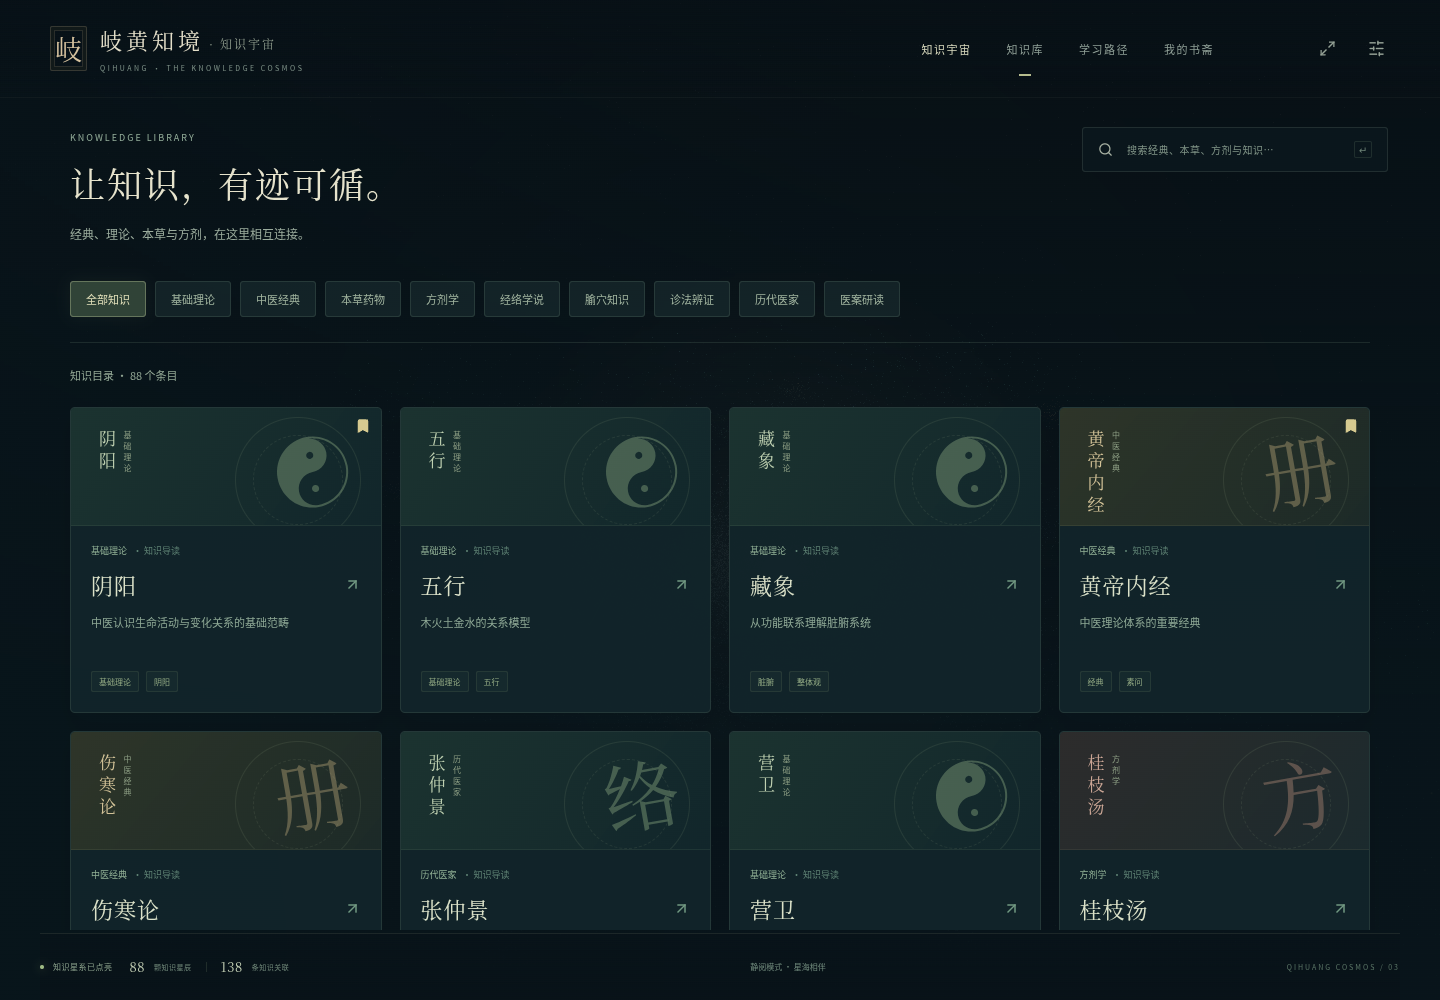
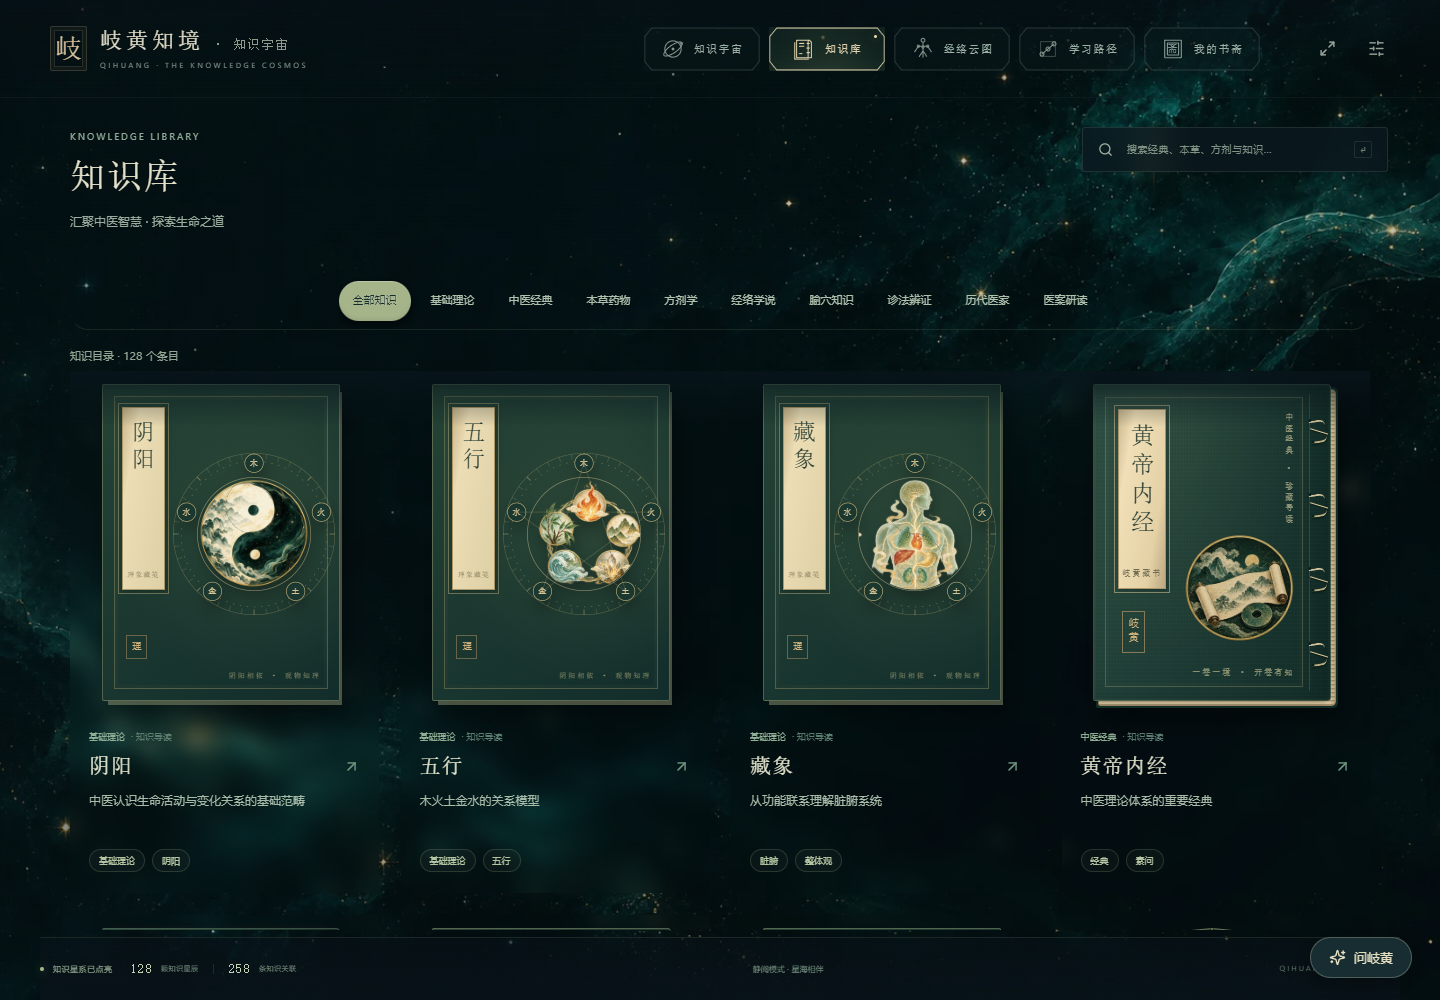
docs: refresh README screenshots and document the stack
Replace the five README screenshots with the current cosmic UI and add a
technical section covering the Three.js shader rendering, lazy-loaded
scenes, API and data model, AI quota proxy, motion preferences, and the
Playwright suite.

diff --git a/README.md b/README.md
@@ -71,6 +71,20 @@
 
 岐黄知境希望陪你慢慢读、认真想，把零散的知识连接起来，让每一步学习有所收获。
 
+## 技术实现
+
+前端是 React 18 + TypeScript 的单页应用，由 Vite 6 构建；后端是 Express 5 + PostgreSQL 的 API 服务，两部分分别部署在 Render。
+
+- **三维知识星海**：Three.js + React Three Fiber，自写 GLSL 着色器绘制星云、知识云团和关联光束；128 个知识条目按领域分布，节点点击拾取、相机旋转平移与视口自适应都在运行时计算。
+- **渐进加载**：星海画布、经络人体、课程场景和页面动效分别通过 `React.lazy` 拆包，首屏只加载当前路由需要的模块。
+- **知识内容**：条目与关联关系以 JSON 组织，管理员在站内编辑草稿、预览后发布，前端通过 API 读取。
+- **学习记录**：游客记录保存在 localStorage，登录后同步到 PostgreSQL；收藏、学习进度和修改建议都处理了并发冲突与分页。
+- **AI 学习助手**：后端代理模型请求、按账号限制每日额度，前端流式展示回答并支持中止生成；模型接入由管理员在站内配置。
+- **动效与可访问性**：GSAP + ScrollTrigger 驱动页面序列动效，React Bits 组件负责导航与卡片交互；所有动效都响应 `prefers-reduced-motion`。
+- **测试与资产校验**：24 个 Playwright 测试文件、133 个端到端用例覆盖账号、内容、管理、课程和经络流程；三维人体另有 Blender 处理脚本与静态校验脚本，用于模型归一化和穴位锚点核对。
+
+目录上，`src/features/` 按功能拆分（知识宇宙、课程、书斋、账户、AI、贡献、后台、经络），`server/` 是 API，`tests/` 是端到端测试，`docs/` 记录开发与验证过程，`third-party/` 保存第三方来源与许可。本地运行与发布流程见 [开发与维护说明](docs/DEVELOPMENT.md)。
+
 ## 关于内容
 
 当前内容以知识简介与学习导读为主，具体文献版本和出处仍在核对与完善中。阅读经典与本草条目时，可结合相应原典、整理本和教材进一步学习。
